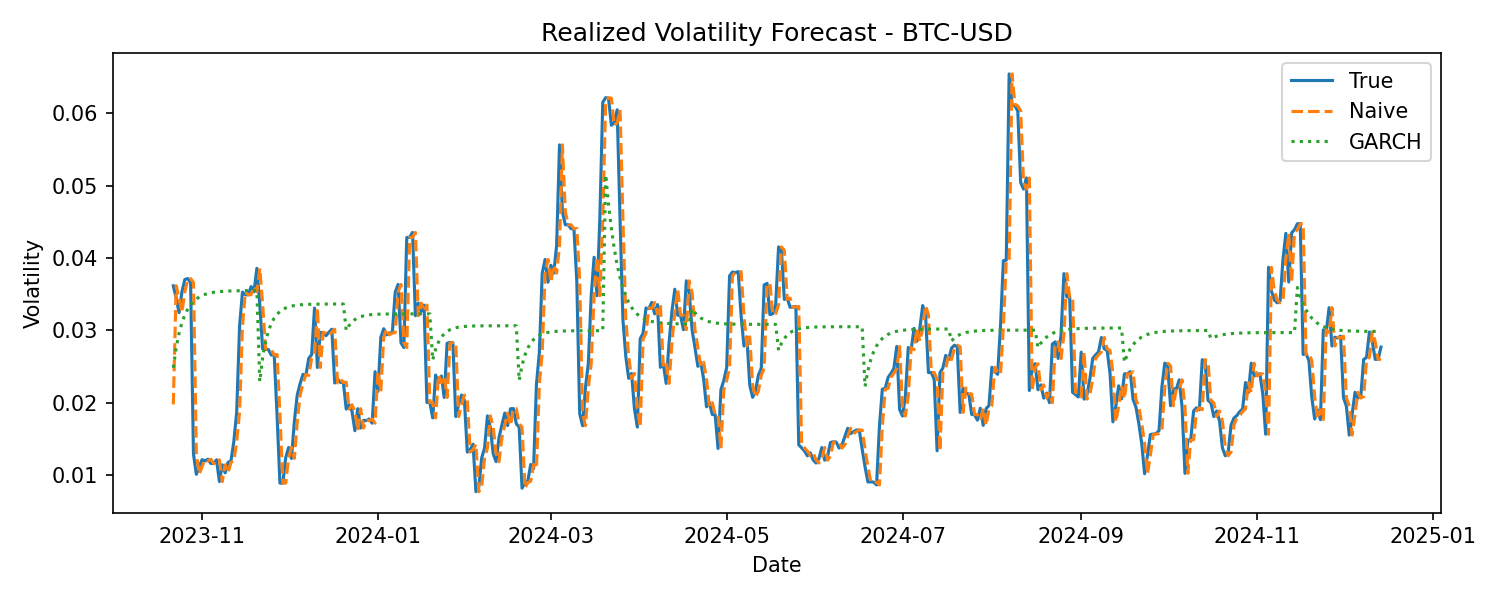
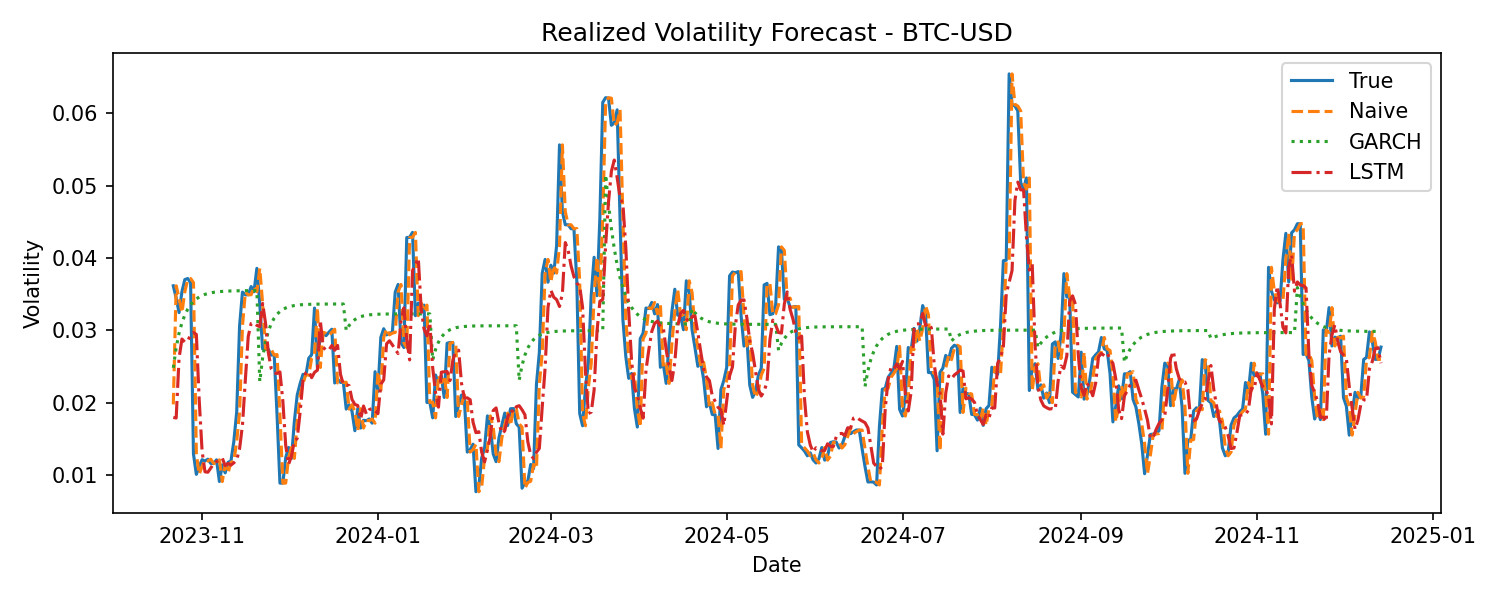
Add LSTM metrics to walk-forward evaluation

diff --git a/main.py b/main.py
@@ -4,12 +4,11 @@ import os
 import pandas as pd
 import matplotlib.pyplot as plt
 
-from sklearn.preprocessing import StandardScaler  
+from sklearn.preprocessing import StandardScaler
 
 from src.data_loader import download_crypto_prices, prepare_dataset
 from src.evaluation import compute_metrics
 from src.models import garch_forecast_sigma_path
-
 from src.models import LSTMConfig, make_sequences, train_lstm_predict
 
 
@@ -75,10 +74,11 @@ def run_for_ticker(ticker: str, start: str, end: str, vol_window: int, horizon: 
         horizon_block = test_end - test_start
         garch_path = garch_forecast_sigma_path(past_returns, horizon_block)
         y_pred_garch_block = pd.Series(garch_path, index=y_true_block.index)
+
         valid = y_pred_garch_block.notna()
         m_garch = compute_metrics(y_true_block[valid], y_pred_garch_block[valid])
 
-        # LSTM (prep)
+        # LSTM 
         cfg = LSTMConfig(lookback=30)
 
         train_df = df.iloc[:test_start].copy()
@@ -98,16 +98,20 @@ def run_for_ticker(ticker: str, start: str, end: str, vol_window: int, horizon: 
         X_full_seq, _ = make_sequences(X_full, y_full_raw, cfg.lookback)
 
         seq_offset = cfg.lookback
-        X_test_seq = X_full_seq[test_start - seq_offset : test_end - seq_offset]
-
-        lstm_preds = train_lstm_predict(X_train_seq, y_train_seq, X_test_seq, cfg)
-        y_pred_lstm_block = pd.Series(lstm_preds, index=y_true_block.index)
+        X_test_seq = X_full_seq[test_start - seq_offset: test_end - seq_offset]
 
         if len(X_train_seq) == 0 or len(X_test_seq) == 0:
             raise ValueError("LSTM sequences empty. Try smaller lookback or more data.")
 
-        fold_metrics.append({"ticker": ticker, "fold": fold_id, "train_end_index": train_end, "test_start_index": test_start, "test_end_index": test_end, "rmse_naive": m_naive["rmse"], "mae_naive": m_naive["mae"], "rmse_garch": m_garch["rmse"], "mae_garch": m_garch["mae"],})
+        lstm_preds = train_lstm_predict(X_train_seq, y_train_seq, X_test_seq, cfg)
+        y_pred_lstm_block = pd.Series(lstm_preds, index=y_true_block.index)
 
+        m_lstm = compute_metrics(y_true_block, y_pred_lstm_block)
+
+        # Save fold metrics 
+        fold_metrics.append({"ticker": ticker, "fold": fold_id, "train_end_index": train_end, "test_start_index": test_start, "test_end_index": test_end, "rmse_naive": m_naive["rmse"], "mae_naive": m_naive["mae"], "rmse_garch": m_garch["rmse"], "mae_garch": m_garch["mae"], "rmse_lstm": m_lstm["rmse"], "mae_lstm": m_lstm["mae"],})
+
+        # Save predictions 
         block = df.iloc[test_start:test_end][["Date", "target"]].copy()
         block = block.rename(columns={"target": "y_true"})
         block["y_pred_naive"] = y_pred_block.values
@@ -120,11 +124,15 @@ def run_for_ticker(ticker: str, start: str, end: str, vol_window: int, horizon: 
     pred_df = pd.concat(all_pred_rows, ignore_index=True)
     fold_metrics_df = pd.DataFrame(fold_metrics)
 
+    # Overall metrics 
     overall_naive = compute_metrics(pred_df["y_true"], pred_df["y_pred_naive"])
-    valid_all = pred_df["y_pred_garch"].notna()
-    overall_garch = compute_metrics(pred_df.loc[valid_all, "y_true"], pred_df.loc[valid_all, "y_pred_garch"])
 
-    overall_df = pd.DataFrame([{"ticker": ticker, "rmse_naive": overall_naive["rmse"], "mae_naive": overall_naive["mae"], "rmse_garch": overall_garch["rmse"], "mae_garch": overall_garch["mae"],}])
+    valid_all = pred_df["y_pred_garch"].notna()
+    overall_garch = compute_metrics(pred_df.loc[valid_all, "y_true"], pred_df.loc[valid_all, "y_pred_garch"],)
+
+    overall_lstm = compute_metrics(pred_df["y_true"], pred_df["y_pred_lstm"])
+
+    overall_df = pd.DataFrame([{"ticker": ticker, "rmse_naive": overall_naive["rmse"], "mae_naive": overall_naive["mae"], "rmse_garch": overall_garch["rmse"], "mae_garch": overall_garch["mae"], "rmse_lstm": overall_lstm["rmse"], "mae_lstm": overall_lstm["mae"],}])
 
     return pred_df, fold_metrics_df, overall_df
 
@@ -141,6 +149,7 @@ def plot_predictions(pred_df: pd.DataFrame, out_dir: str) -> None:
         plt.plot(g["Date"], g["y_true"], label="True")
         plt.plot(g["Date"], g["y_pred_naive"], linestyle="--", label="Naive")
         plt.plot(g["Date"], g["y_pred_garch"], linestyle=":", label="GARCH")
+        plt.plot(g["Date"], g["y_pred_lstm"], linestyle="-.", label="LSTM")
         plt.title(f"Realized Volatility Forecast - {ticker}")
         plt.xlabel("Date")
         plt.ylabel("Volatility")
@@ -185,4 +194,5 @@ def main() -> None:
 
 if __name__ == "__main__":
     main()
+
 
